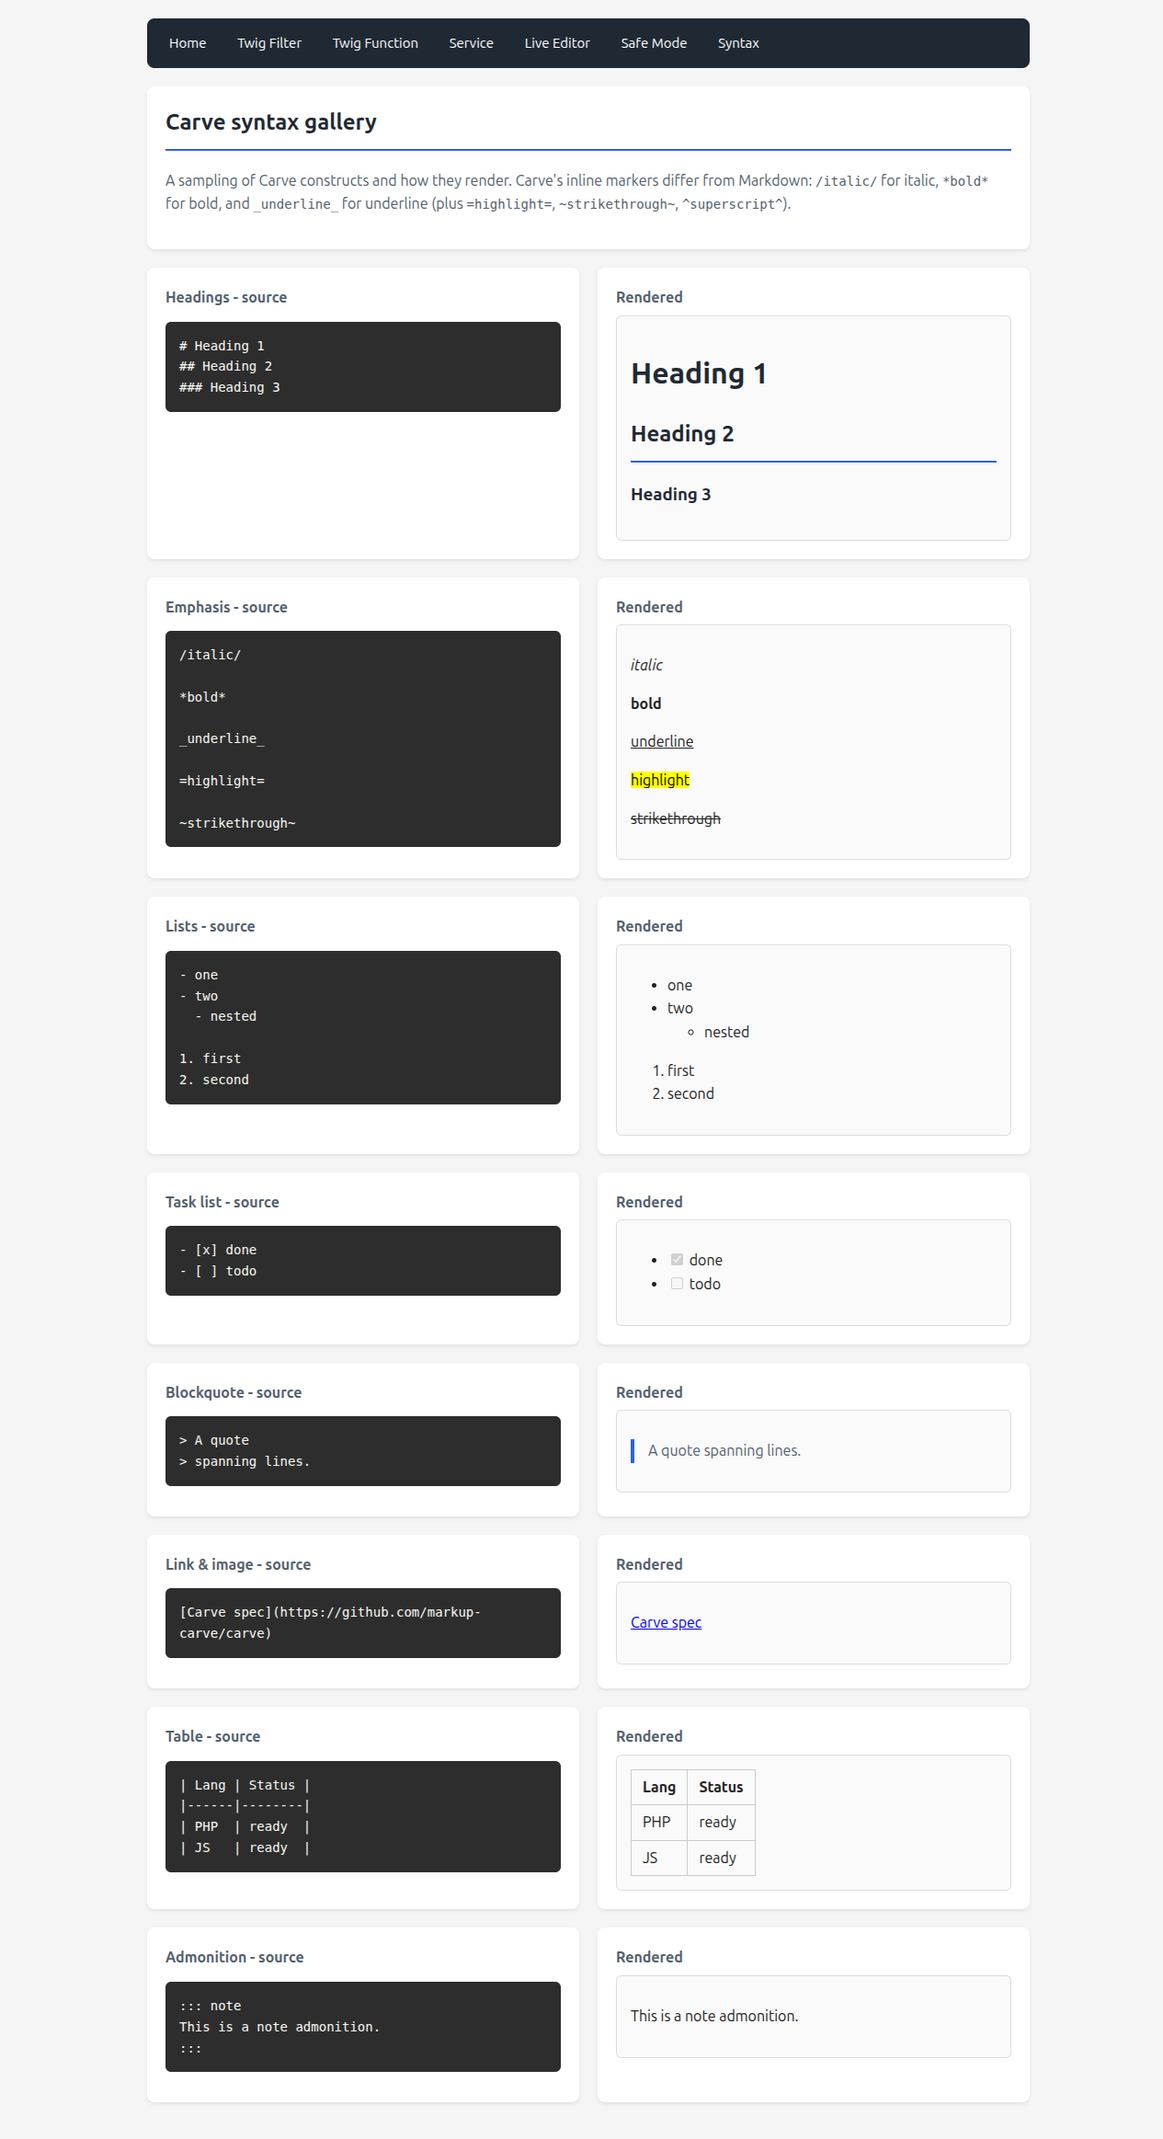
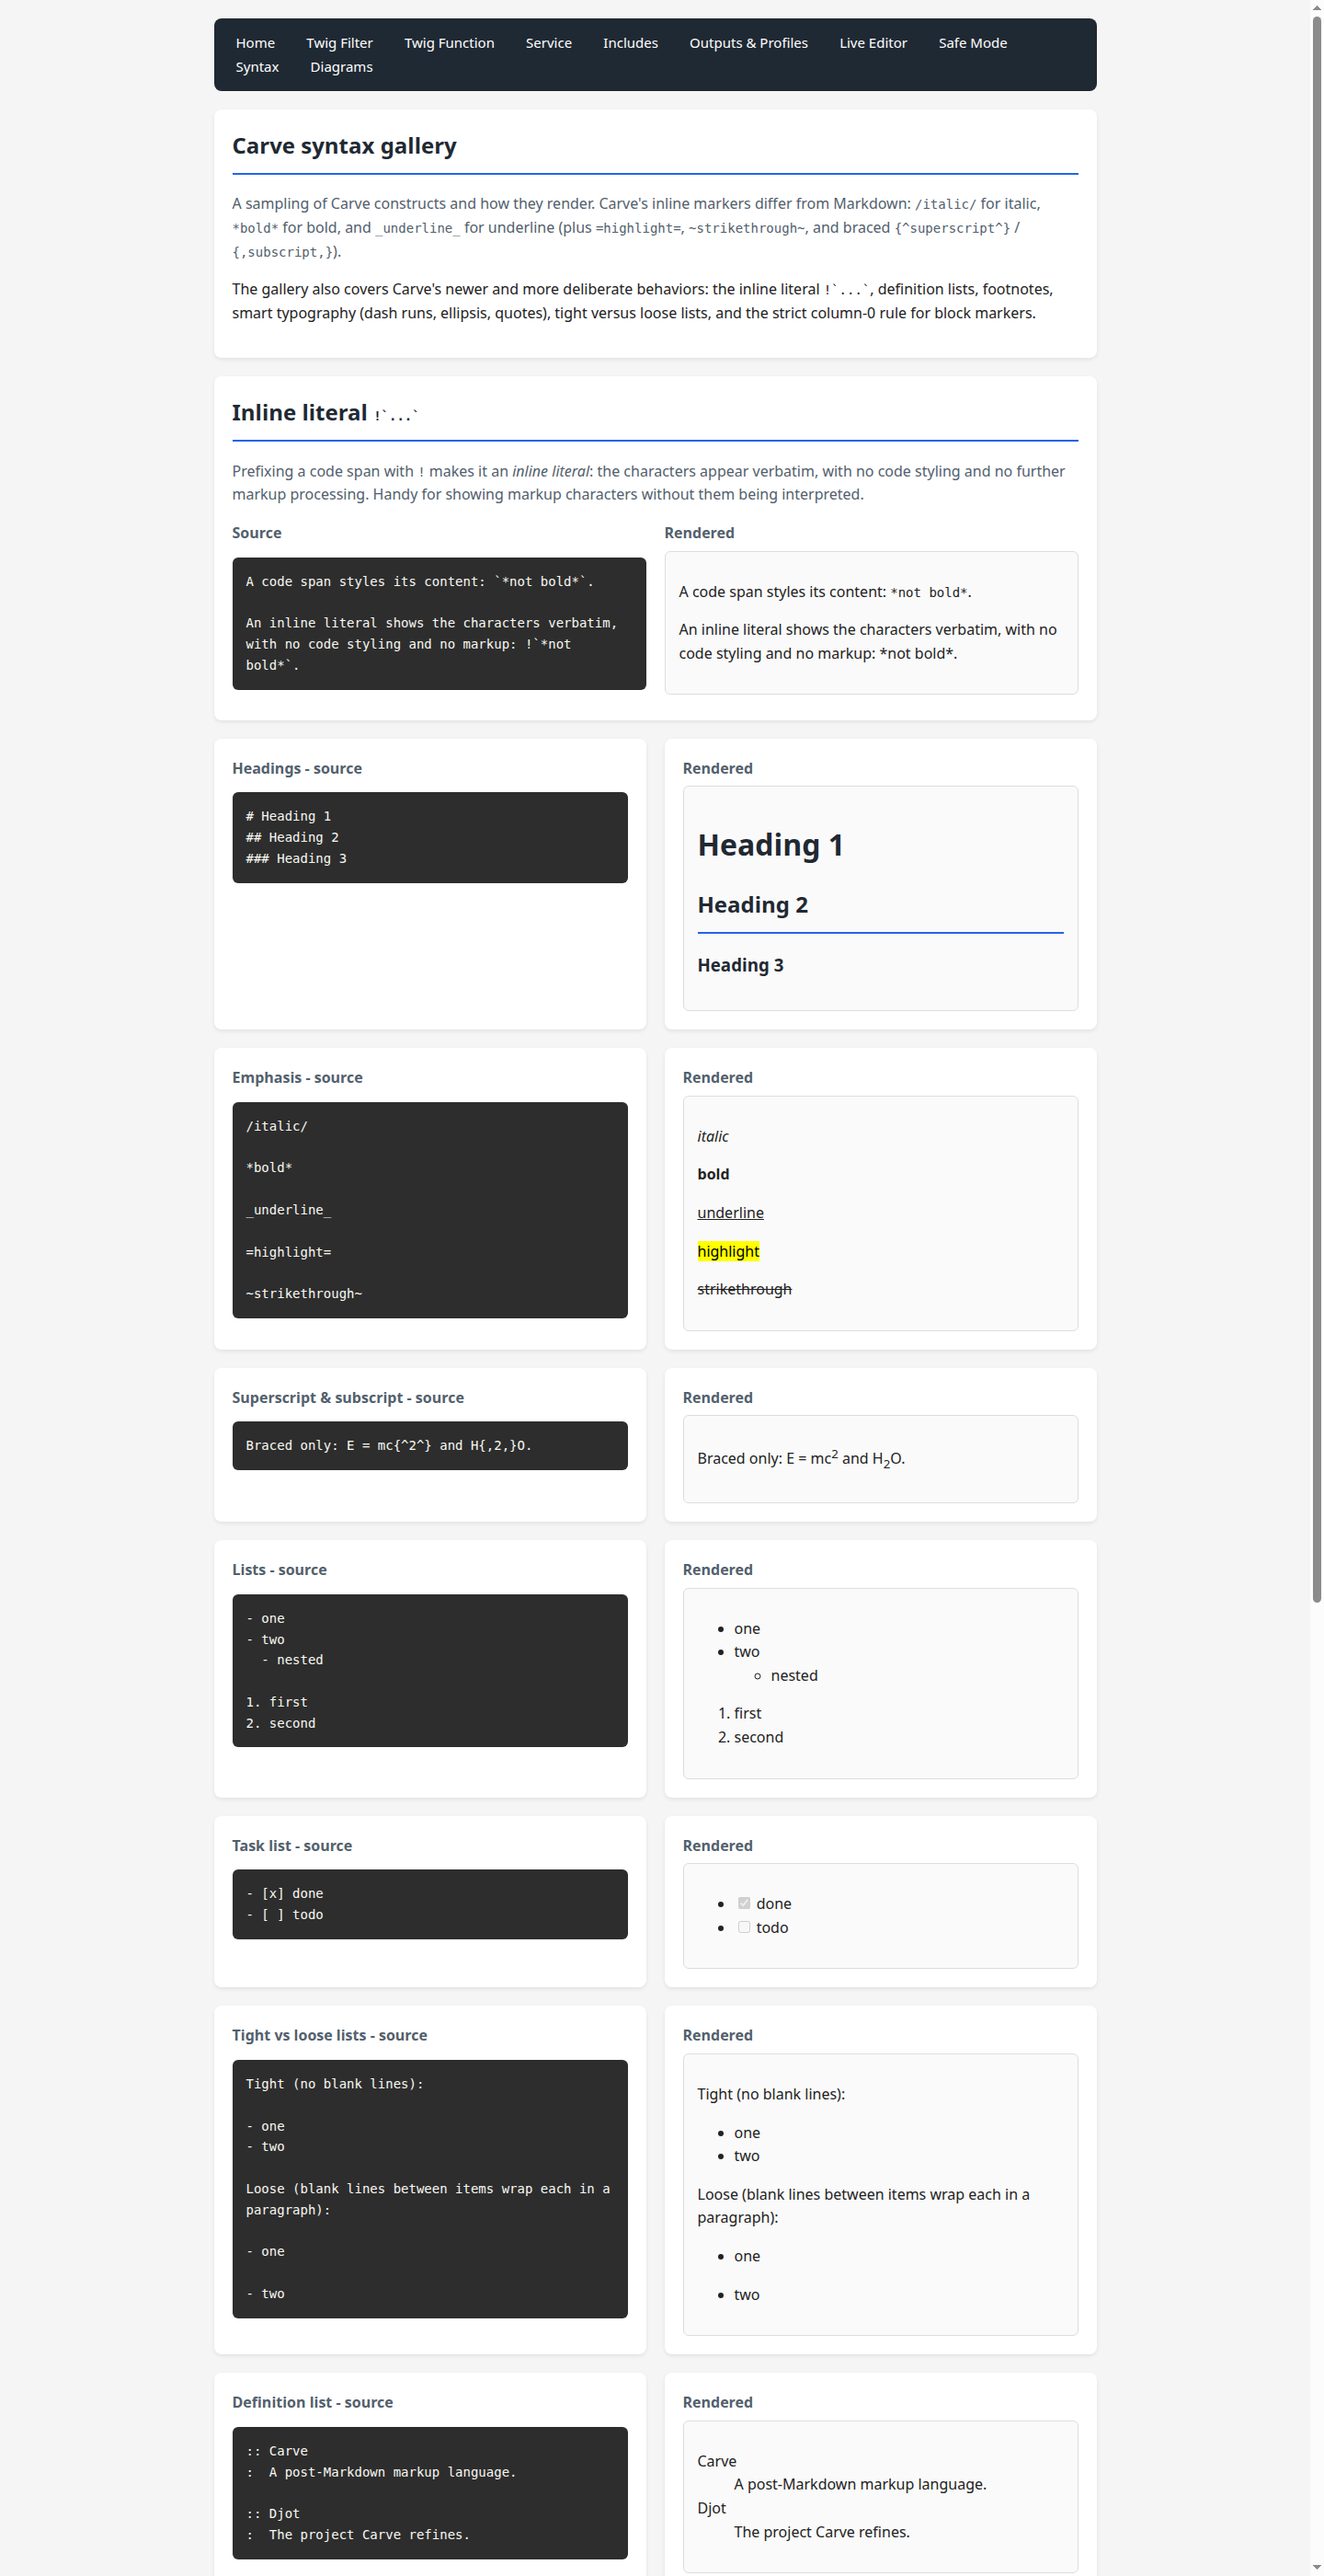
docs: refresh the screenshot gallery

diff --git a/README.md b/README.md
@@ -40,6 +40,7 @@ Then open <http://localhost:8000>.
 | Twig Filter | `/twig-filter` | `{{ source\|carve }}` - render a Carve string in a template |
 | Twig Function | `/twig-function` | `{{ carve(source) }}` - the function form |
 | Service | `/service` | Inject `CarveRenderer` and call `render()` from PHP |
+| Includes | `/includes` | Trusted file-backed content and configuration-backed snippets |
 | Outputs & Profiles | `/outputs-profiles` | HTML, plain-text, and Markdown targets plus feature-restriction profiles (0.1.4) |
 | Live Editor | `/form` | Type Carve in a form, submit, and see the rendered preview |
 | Safe Mode | `/safe-mode` | Raw-HTML `strip` / `escape` / `allow` and disabled, side by side, against an XSS payload |
@@ -48,7 +49,7 @@ Then open <http://localhost:8000>.
 
 ## Screenshots
 
-See the **[screenshot gallery](docs/screenshots/)** for a visual tour - the live diagram gallery (all eight fenced-render presets drawn live), the Twig filter, the live editor, safe mode, the syntax gallery, and the home page.
+See the **[screenshot gallery](docs/screenshots/)** for a visual tour of Includes, the live diagram gallery with all eight presets drawn live, the Twig filter, the live editor, safe mode, the syntax gallery, and the home page.
 
 
 ### Twig

diff --git a/docs/screenshots/README.md b/docs/screenshots/README.md
@@ -9,6 +9,13 @@ Overview of all features.
 
 ![Home page](home.png)
 
+## Includes
+
+Trusted file-backed content and application-provided snippets, with each
+directive's resolved dependency report.
+
+![Includes](includes.png)
+
 ## Twig filter
 
 Carve source and rendered HTML side by side.
